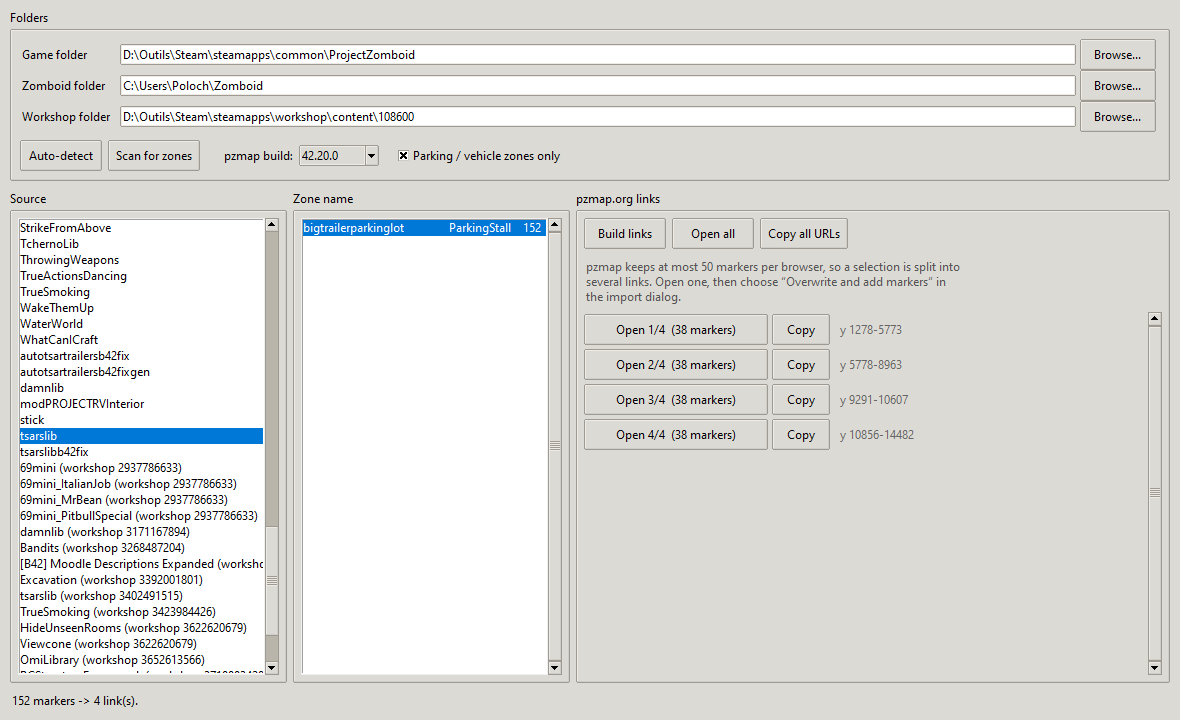
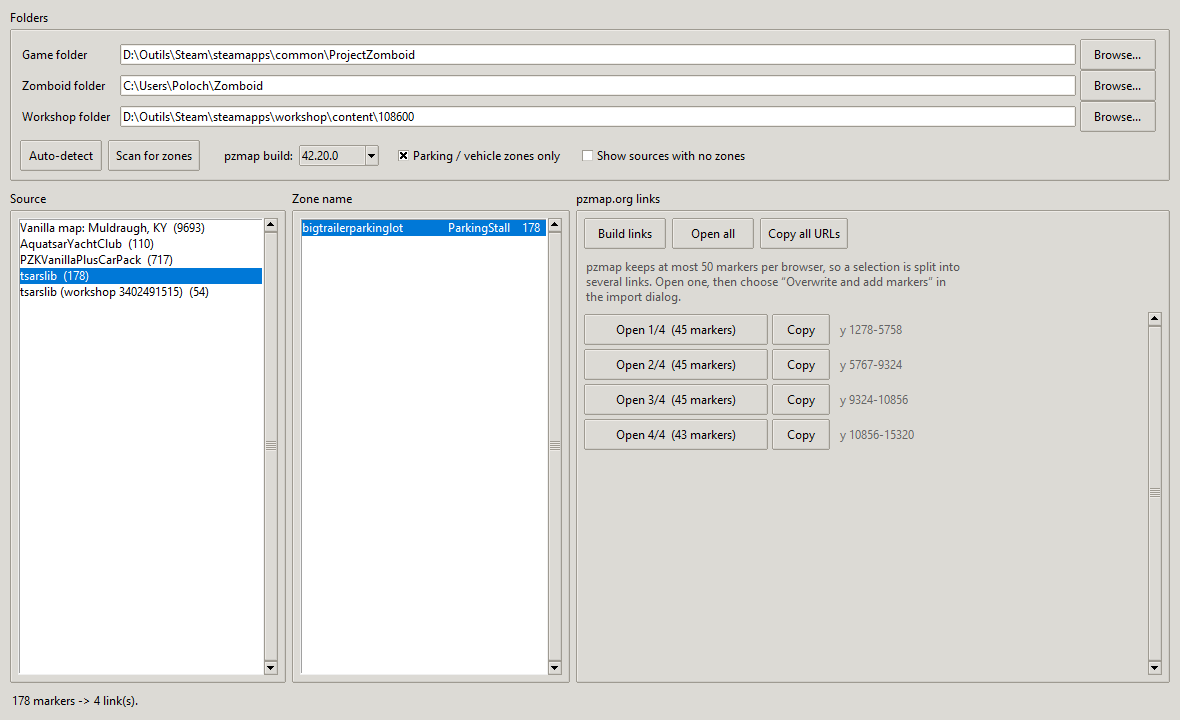
Hide sources that define no zones, behind a checkbox
Only 5 of 121 installed sources declare any zone, so listing every mod buried
the useful ones. The scan now reads each source up front (about 1.3 s for the
whole list) and the source pane shows only what defines something, with the
zone count beside each name.

- "Show sources with no zones" (unticked by default) puts the rest back
- toggling either filter checkbox re-lists instantly; the parse is cached
- build_links(confirm=False) so the selftest never puts a modal dialog on the
  user's desktop, and it now exercises the smallest zone group

diff --git a/pzzoneviewer/app.py b/pzzoneviewer/app.py
@@ -31,7 +31,7 @@ class Source(object):
         self.label = label
         self.path = path
         self.kind = kind          # "map" or "mod"
-        self.zones = None         # lazily filled
+        self.zones = None         # filled during the scan, then cached
 
     def load(self):
         if self.zones is None:
@@ -40,6 +40,12 @@ class Source(object):
             else:
                 self.zones = parsers.scan_tree(self.path)
         return self.zones
+
+    def count(self, vehicle_only):
+        zones = self.zones or []
+        if vehicle_only:
+            zones = [z for z in zones if z.type in parsers.VEHICLE_TYPES]
+        return len(zones)
 
 
 class App(ttk.Frame):
@@ -51,6 +57,7 @@ class App(ttk.Frame):
 
         self.cfg = config.load()
         self.sources = []
+        self.visible = []
         self.link_buttons = []
         self.queue = queue.Queue()
 
@@ -86,7 +93,12 @@ class App(ttk.Frame):
                      state="readonly").pack(side="left")
         self.only_vehicle = tk.BooleanVar(value=self.cfg.get("only_vehicle", True))
         ttk.Checkbutton(bar, text="Parking / vehicle zones only",
-                        variable=self.only_vehicle).pack(side="left", padx=16)
+                        variable=self.only_vehicle,
+                        command=self._refilter).pack(side="left", padx=16)
+        self.show_empty = tk.BooleanVar(value=self.cfg.get("show_empty", False))
+        ttk.Checkbutton(bar, text="Show sources with no zones",
+                        variable=self.show_empty,
+                        command=self._refilter).pack(side="left")
 
     def _build_panes(self):
         self.rowconfigure(1, weight=1)
@@ -183,6 +195,7 @@ class App(ttk.Frame):
         self.cfg.update({k: v.get() for k, v in self.vars.items()})
         self.cfg["build"] = self.build.get()
         self.cfg["only_vehicle"] = bool(self.only_vehicle.get())
+        self.cfg["show_empty"] = bool(self.show_empty.get())
         config.save(self.cfg)
 
     def scan(self):
@@ -204,9 +217,15 @@ class App(ttk.Frame):
                 for name, path in sources.game_map_dirs(game):
                     found.append(Source("Vanilla map: %s" % name, path, "map"))
             mods = sources.list_mod_dirs(zomboid, workshop)
-            for i, (label, path) in enumerate(mods):
-                self.queue.put(("status", "Scanning mods %d/%d: %s" % (i + 1, len(mods), label)))
+            for label, path in mods:
                 found.append(Source(label, path, "mod"))
+            # read every source now, so we know which ones define nothing
+            for i, src in enumerate(found):
+                self.queue.put(("status", "Reading %d/%d: %s" % (i + 1, len(found), src.label)))
+                try:
+                    src.load()
+                except Exception:
+                    src.zones = []
             self.queue.put(("sources", found))
         except Exception as exc:                      # keep the UI alive
             self.queue.put(("error", str(exc)))
@@ -229,16 +248,46 @@ class App(ttk.Frame):
 
     def _fill_sources(self, found):
         self.sources = found
+        self._refilter()
+
+    def _refilter(self):
+        """Redraw the source list for the current filter checkboxes."""
+        if not self.sources:
+            return
+        keep_empty = bool(self.show_empty.get())
+        vehicle_only = bool(self.only_vehicle.get())
+        previous = None
+        if getattr(self, "visible", None):
+            sel = self.src_list.curselection()
+            if sel:
+                previous = self.visible[sel[0]]
+
+        self.visible = [s for s in self.sources
+                        if keep_empty or s.count(vehicle_only) > 0]
         self.src_list.delete(0, "end")
-        for s in found:
-            self.src_list.insert("end", s.label)
-        self.status.set("%d sources. Pick one to list its zones." % len(found))
+        for s in self.visible:
+            n = s.count(vehicle_only)
+            self.src_list.insert("end", "%s  (%d)" % (s.label, n) if n else s.label)
+        if previous in self.visible:
+            i = self.visible.index(previous)
+            self.src_list.selection_set(i)
+            self.src_list.see(i)
+        hidden = len(self.sources) - len(self.visible)
+        with_zones = sum(1 for s in self.sources if s.count(vehicle_only) > 0)
+        if hidden:
+            msg = ("%d source(s) with zones, %d empty one(s) hidden."
+                   % (with_zones, hidden))
+        else:
+            msg = ("%d source(s), %d with zones."
+                   % (len(self.visible), with_zones))
+        self.status.set(msg + " Pick one to list its zones.")
+        self._save_cfg()
 
     def on_source(self):
         sel = self.src_list.curselection()
         if not sel:
             return
-        src = self.sources[sel[0]]
+        src = self.visible[sel[0]]
         self.zone_list.delete(0, "end")
         self._clear_links()
         self.status.set("Reading %s..." % src.label)
@@ -283,7 +332,7 @@ class App(ttk.Frame):
         self.link_buttons = []
         self.urls = []
 
-    def build_links(self):
+    def build_links(self, confirm=True):
         sel = self.zone_list.curselection()
         if not sel:
             messagebox.showinfo("Nothing selected", "Pick at least one zone name.")
@@ -305,7 +354,7 @@ class App(ttk.Frame):
             return
         pois.sort(key=lambda p: (p["y"], p["x"]))
         batches = share.split(pois)
-        if len(batches) > 40 and not messagebox.askokcancel(
+        if confirm and len(batches) > 40 and not messagebox.askokcancel(
                 "That is a lot of links",
                 "%d zones would need %d links of up to %d markers.\n\n"
                 "Vanilla car parks hold thousands of stalls; you may want a "

diff --git a/selftest.py b/selftest.py
@@ -54,13 +54,22 @@ def main():
         pump(root, 0.1)
         if app.sources:
             break
-    print("[ok] scan found %d sources" % len(app.sources))
+    print("[ok] scan read %d sources, %d shown (empty ones hidden)"
+          % (len(app.sources), len(app.visible)))
     if not app.sources:
         ok = False
+    assert not app.show_empty.get(), "the empty-source box must start unticked"
+    hidden = len(app.sources) - len(app.visible)
+    app.show_empty.set(True); app._refilter(); pump(root, 0.2)
+    assert len(app.visible) == len(app.sources), (len(app.visible), len(app.sources))
+    app.show_empty.set(False); app._refilter(); pump(root, 0.2)
+    assert len(app.visible) == len(app.sources) - hidden
+    print("[ok] 'show sources with no zones' toggles %d <-> %d entries"
+          % (len(app.sources) - hidden, len(app.sources)))
 
     # pick the first source that actually defines something
     picked = None
-    for i, s in enumerate(app.sources):
+    for i, s in enumerate(app.visible):
         app.src_list.selection_clear(0, "end")
         app.src_list.selection_set(i)
         app.on_source()
@@ -73,9 +82,12 @@ def main():
             break
     if picked:
         print("[ok] %s -> %d zone names" % (picked.label, len(app.groups)))
+        # pick the smallest group, and never pop the "lots of links" dialog:
+        # a test must not put a modal box on the user's desktop
+        smallest = min(range(len(app.groups)), key=lambda i: len(app.groups[i][1]))
         app.zone_list.selection_clear(0, "end")
-        app.zone_list.selection_set(0)
-        app.build_links()
+        app.zone_list.selection_set(smallest)
+        app.build_links(confirm=False)
         pump(root, 0.3)
         print("[ok] built %d link(s); first = %s..." % (len(app.urls), app.urls[0][:60]))
         assert app.urls and app.urls[0].startswith("https://pzmap.org/?")

diff --git a/README.md b/README.md
@@ -50,7 +50,9 @@ sudo pacman -S tk                  # Arch
    `libraryfolders.vdf`), the game install and your `Zomboid` folder by itself.
    Fix any of them with *Browse…* if the guess is wrong, then *Scan for zones*.
 2. **Source** — vanilla maps first, then every mod in `Zomboid/mods` and in the
-   Steam Workshop folder.
+   Steam Workshop folder, each with how many zones it defines. Most mods define
+   none, so they are hidden by default; tick **Show sources with no zones** to
+   list them all.
 3. **Zone name** — the zone names that source defines, with how many zones each
    one has. Select several at once with Ctrl-click; each gets its own colour.
 4. **Build links** — one button per batch. *Open all* opens them in sequence,
@@ -73,6 +75,11 @@ the zone mods people actually ship:
 Commented-out lines are skipped, and small arithmetic in the coordinates
 (`x = 5553+5`) is evaluated. By default only vehicle-placing types
 (`ParkingStall`, `Vehicle`) are listed; untick the box to see every zone type.
+
+The base game and mods are read the same way, from the files on disk — nothing
+is bundled with the app. A vanilla map lists its own stalls (about 9 700 for
+Muldraugh), and a mod lists whatever it declares, including any local edits you
+have made.
 
 Only `.lua` files that plausibly hold zones are opened — `objects.lua`, anything
 under a `mapszones` or `maps` folder, and files with `zone` in the name — so
